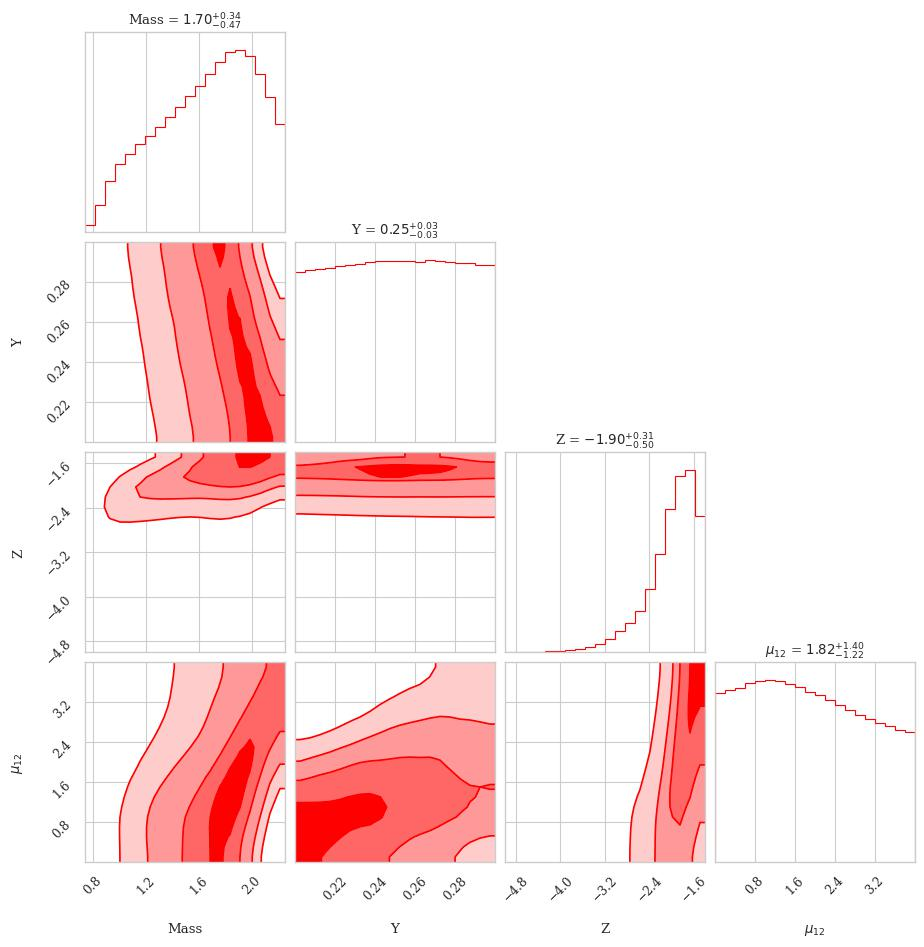
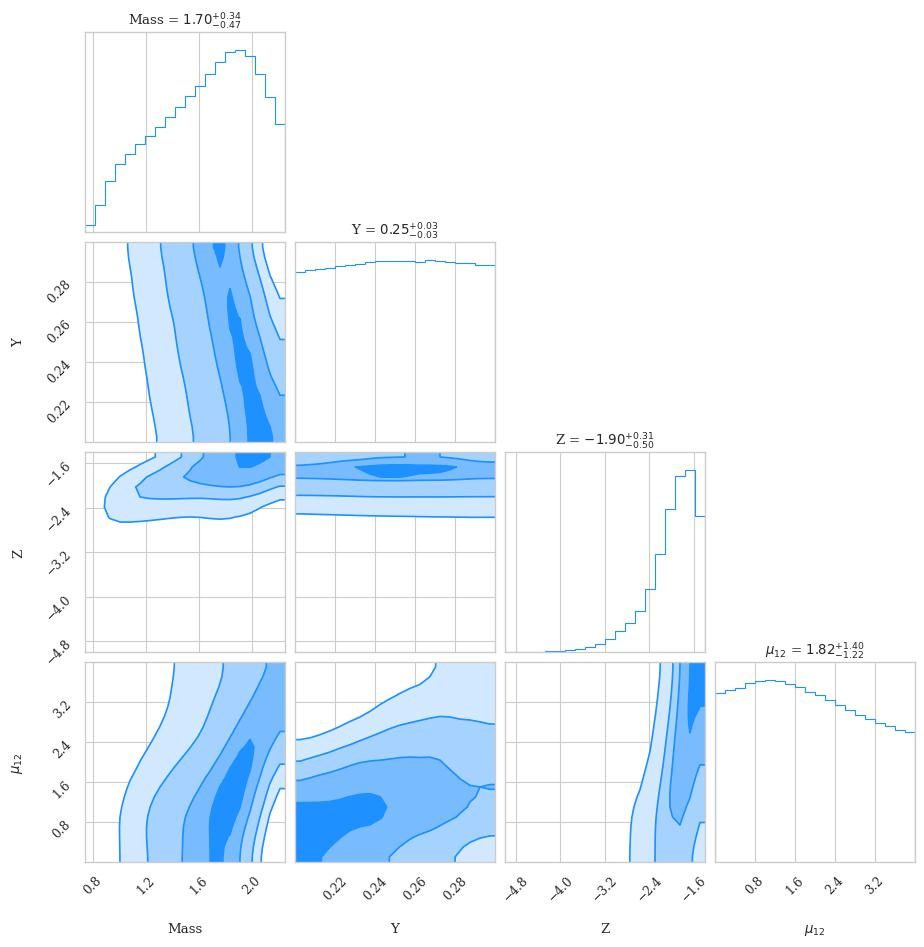
pretty corner plots for everyone

diff --git a/mcmc/analyzeMCMC.py b/mcmc/analyzeMCMC.py
@@ -25,7 +25,7 @@ def plotCorner():
     fig = corner.corner(chain,
                         labels=['Mass', 'Y', 'Z', r'$\mu_{12}$'],
                         show_titles=True,
-                        color='red',
+                        color='dodgerblue',
                         smooth=True,
                         plot_datapoints=False,
                         fill_contours=True)
